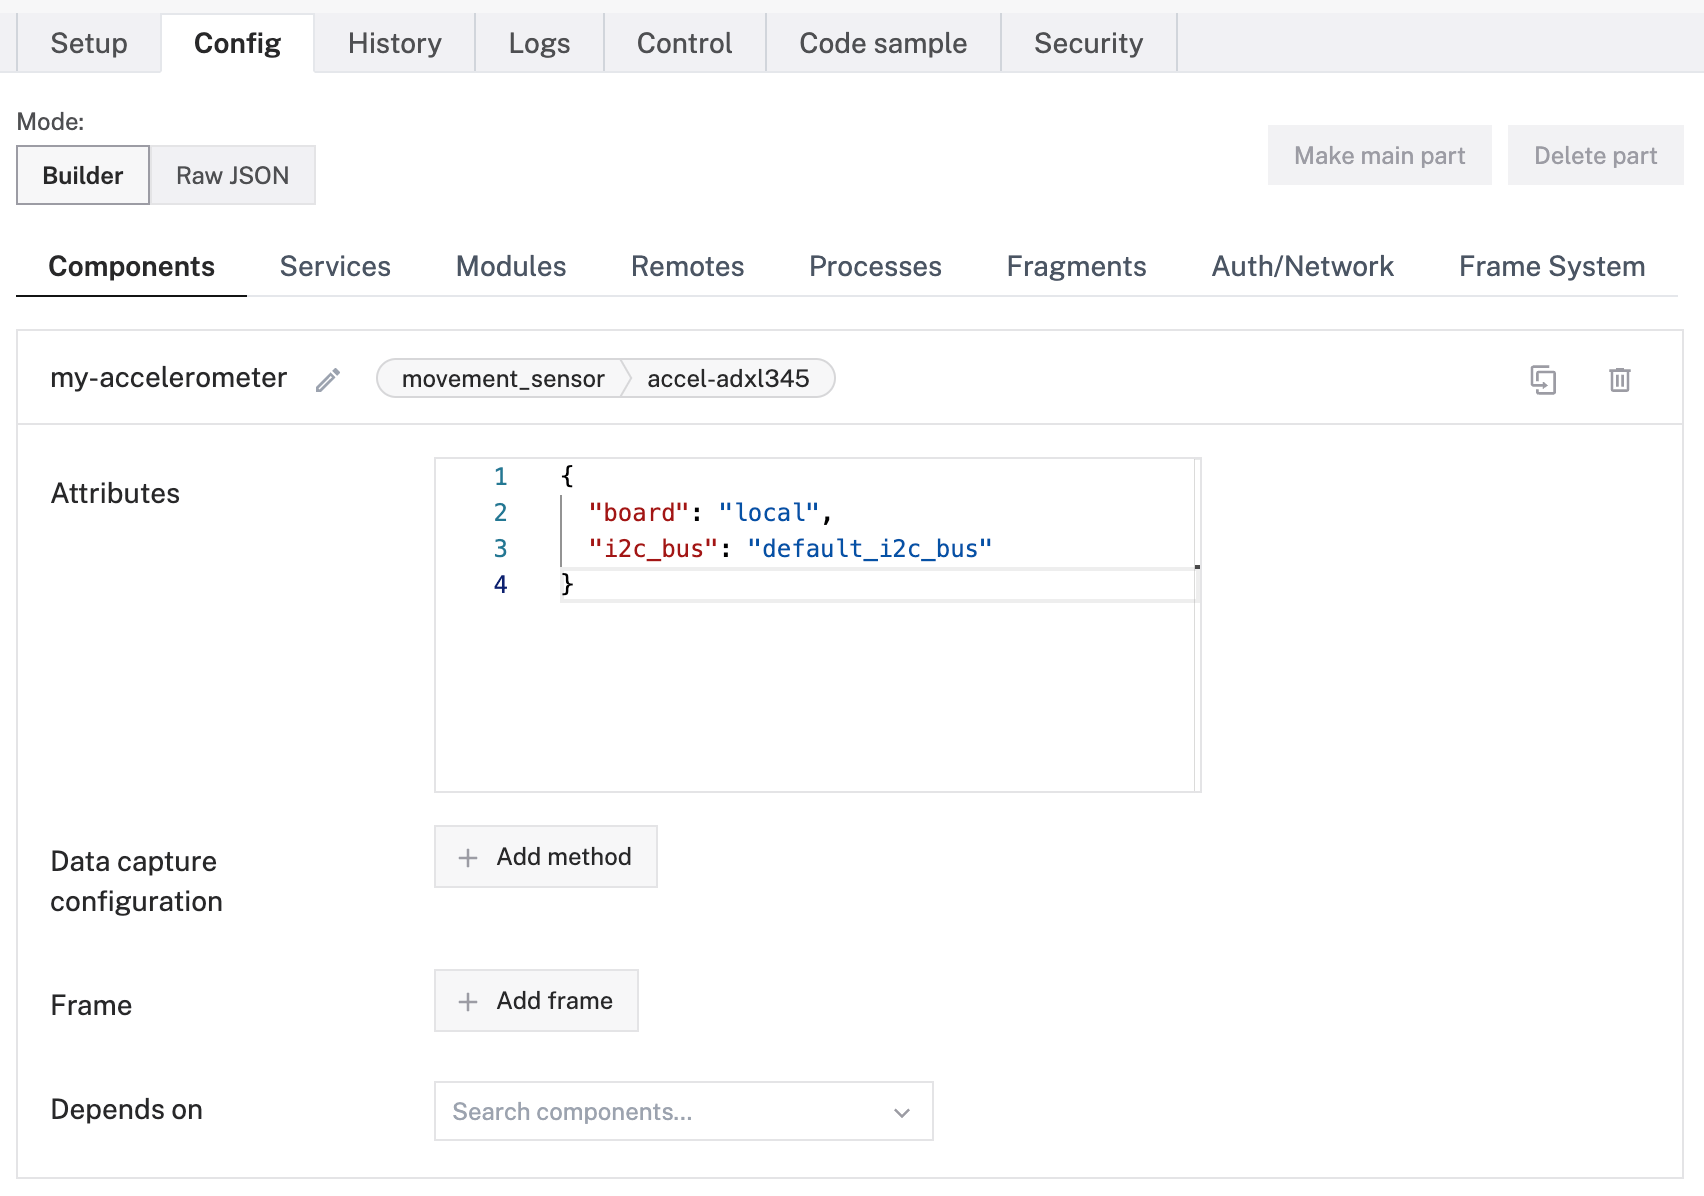
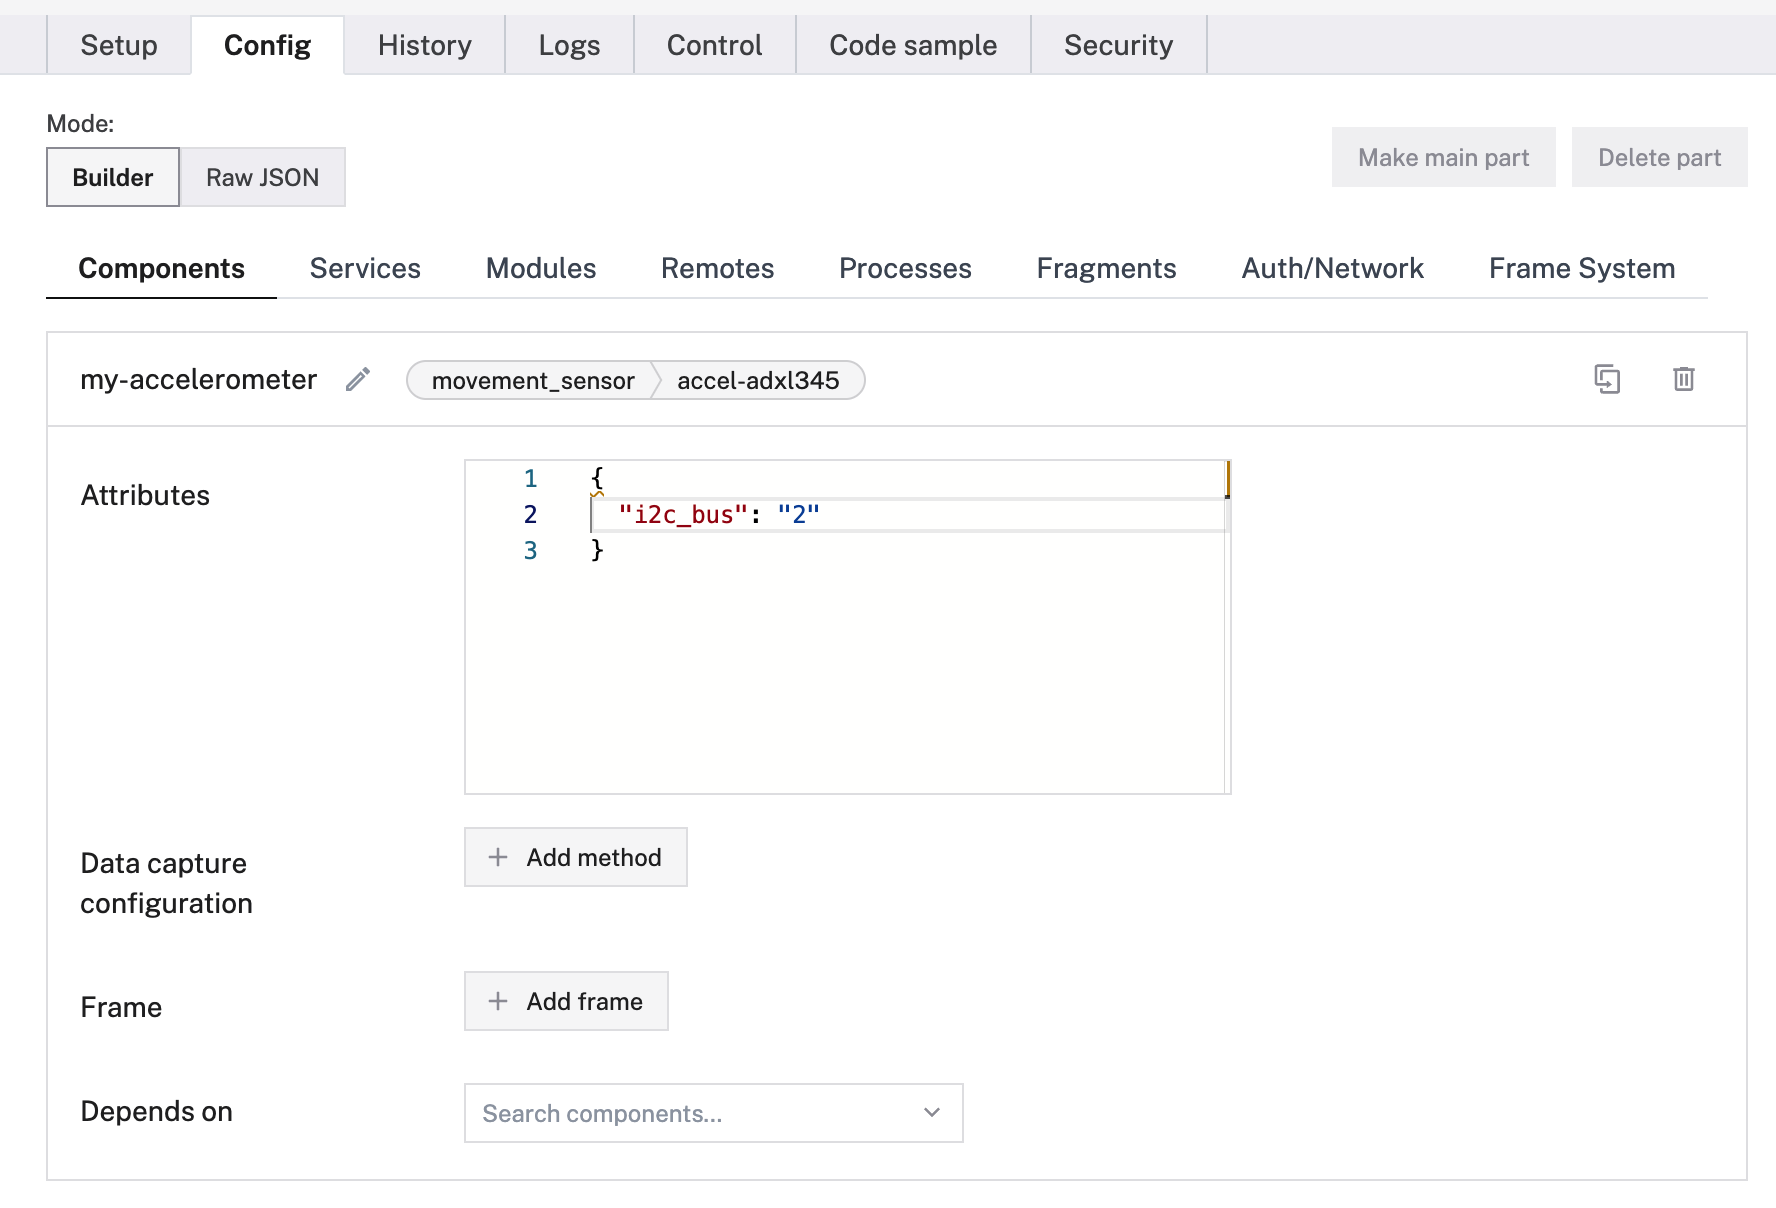
Update config attributes and screenshots

diff --git a/docs/components/movement-sensor/adxl345.md b/docs/components/movement-sensor/adxl345.md
@@ -32,7 +32,7 @@ Then remove and fill in the attributes as applicable to your movement sensor, ac
 ```json {class="line-numbers linkable-line-numbers"}
 {
   "board": "<your-board-name>",
-  "i2c_bus": "<your-i2c-bus-name-on-board>",
+  "i2c_bus": "<your-i2c-bus-index>",
   "use_alternate_i2c_address": <boolean>,
   "tap": {
     "accelerometer_pin": <int>,
@@ -57,8 +57,7 @@ Then remove and fill in the attributes as applicable to your movement sensor, ac
 
 ```json {class="line-numbers linkable-line-numbers"}
 {
-  "board": "local",
-  "i2c_bus": "default_i2c_bus"
+  "i2c_bus": "2"
 }
 ```
 
@@ -78,7 +77,7 @@ Then remove and fill in the attributes as applicable to your movement sensor, ac
       "namespace": "rdk",
       "attributes": {
         "board": "<your-board-name>",
-        "i2c_bus": "<your-i2c-bus-name-on-board>",
+        "i2c_bus": "<your-i2c-bus-index-on-board>",
         "use_alternate_i2c_address": <boolean>,
         "tap": {
           "accelerometer_pin": <int>,
@@ -129,7 +128,7 @@ Then remove and fill in the attributes as applicable to your movement sensor, ac
       "namespace": "rdk",
       "attributes": {
         "board": "local",
-        "i2c_bus": "default_i2c_bus",
+        "i2c_bus": "1",
         "use_alternate_i2c_address": false
       }
     }
@@ -143,13 +142,13 @@ Then remove and fill in the attributes as applicable to your movement sensor, ac
 ## Attributes
 
 <!-- prettier-ignore -->
-| Name                  | Type   | Inclusion    | Description |
-| --------------------- | ------ | ------------ | ----------- |
-| `board`               | string | **Required** | The `name` of the [board](/components/board/) to which the device is wired. |
-| `i2c_bus`             | string | **Required** | The `name` of the [I<sup>2</sup>C bus configured](/components/board/#i2cs) on the [board](/components/board/) wired to this device. |
-| `use_alternate_i2c_address` | bool   | Optional     | Depends on whether you wire SDO low (leaving the default address of 0x53) or high (making the address 0x1D). If high, set true. If low, set false or omit the attribute. <br> Default: `false` |
-| `tap`                 | object | Optional     | Holds the configuration values necessary to use the tap detection interrupt on the ADXL345. See [Tap attributes](#tap-attributes). |
-| `free_fall`           | object | Optional     | Holds the configuration values necessary to use the free-fall detection interrupt on the ADXL345. See [Freefall attributes](#freefall-attributes). |
+| Name | Type   | Inclusion    | Description |
+| ---- | ------ | ------------ | ----------- |
+| `i2c_bus` | string | **Required** | The `name` of the [I<sup>2</sup>C bus configured](/components/board/#i2cs) on the [board](/components/board/) wired to this device. |
+| `board` | string | Optional | The `name` of the [board](/components/board/) to which the device is wired. Only needed if you've configured any [interrupt](/components/board/#digital_interrupts) functionality. |
+| `use_alternate_i2c_address` | bool | Optional | Depends on whether you wire SDO low (leaving the default address of 0x53) or high (making the address 0x1D). If high, set true. If low, set false or omit the attribute. <br> Default: `false` |
+| `tap` | object | Optional | Holds the configuration values necessary to use the tap detection interrupt on the ADXL345. See [Tap attributes](#tap-attributes). |
+| `free_fall` | object | Optional | Holds the configuration values necessary to use the free-fall detection interrupt on the ADXL345. See [Freefall attributes](#freefall-attributes). |
 
 ### Tap attributes
 
